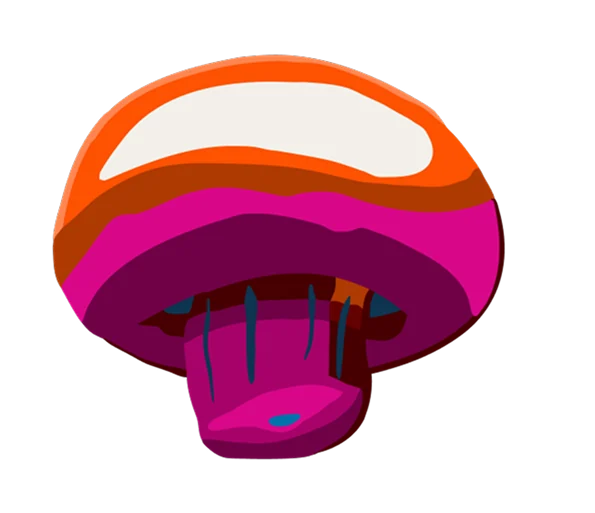
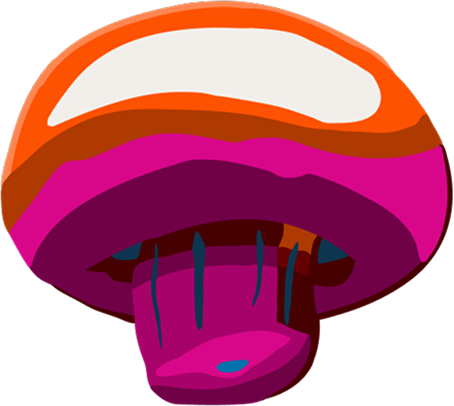
ENTO: interactive illustration mosaic (tinted full-bleed tiles, hover/tap colour flood, tilt, script names) + lossless trimmed illustration assets
Claude-Session: https://claude.ai/code/session_01AmbEQW214YxFFYbdGscpns

diff --git a/src/components/case/EntoCase.tsx b/src/components/case/EntoCase.tsx
@@ -9,15 +9,10 @@ import { categoryCopy, worksCopy } from "@/content/works";
 import { ProjectStamps } from "@/components/works/ProjectStamps";
 import { CaseHeader } from "./CaseHeader";
 import { StickerPile } from "./StickerPile";
+import { IllustrationGallery } from "./IllustrationGallery";
 import styles from "./EntoCase.module.css";
 
 type R = { x: number; y: number; w: number; h: number };
-const pct = (r: R, fw: number, fh: number): CSSProperties => ({
-  left: `${(r.x / fw) * 100}%`,
-  top: `${(r.y / fh) * 100}%`,
-  width: `${(r.w / fw) * 100}%`,
-  height: `${(r.h / fh) * 100}%`,
-});
 
 /* Sticker pile — Figma y 1290 → 2030 (stickers are exported already rotated: placed at their render bounds) */
 const STICKER_Y = 1290;
@@ -36,16 +31,14 @@ const stickers: { src: AssetPath; r: R }[] = [
   { src: "/assets/cases/ento/sticker-midcentury.webp", r: { x: 44, y: 1476, w: 380, h: 117 } },
 ];
 
-/* Illustrations grid — Figma y 4361 → 5160, cells 395 × 395 between hairlines */
-const ILL_Y = 4361;
-const ILL_H = 800;
-const illustrations: { src: AssetPath; alt: keyof typeof entoCopy.alts; r: R }[] = [
-  { src: "/assets/cases/ento/tomate.webp", alt: "tomato", r: { x: 192, y: 4421, w: 271, h: 275 } },
-  { src: "/assets/cases/ento/champinon.webp", alt: "mushroom", r: { x: 568, y: 4440, w: 297, h: 256 } },
-  { src: "/assets/cases/ento/tocineta.webp", alt: "bacon", r: { x: 956, y: 4457, w: 312, h: 217 } },
-  { src: "/assets/cases/ento/pata-de-jamon.webp", alt: "ham", r: { x: 67, y: 4707, w: 522, h: 500 } },
-  { src: "/assets/cases/ento/albahaca.webp", alt: "basil", r: { x: 516, y: 4756, w: 401, h: 401 } },
-  { src: "/assets/cases/ento/illustration-vectorized.webp", alt: "character", r: { x: 935, y: 4766, w: 375, h: 384 } },
+/* Illustrations — interactive mosaic; each tile tinted with an ENTO process colour */
+const illustrations: { src: AssetPath; key: keyof typeof entoCopy.illustrationNames; color: string }[] = [
+  { src: "/assets/cases/ento/tomate.webp", key: "tomato", color: "#5d5609" },
+  { src: "/assets/cases/ento/champinon.webp", key: "mushroom", color: "#045077" },
+  { src: "/assets/cases/ento/tocineta.webp", key: "bacon", color: "#820253" },
+  { src: "/assets/cases/ento/pata-de-jamon.webp", key: "ham", color: "#045077" },
+  { src: "/assets/cases/ento/albahaca.webp", key: "basil", color: "#973102" },
+  { src: "/assets/cases/ento/illustration-vectorized.webp", key: "character", color: "#5d5609" },
 ];
 
 /* Design process: 4 × 2 full-bleed grid; colored cards carry the step, the rest are flavor photos */
@@ -126,24 +119,14 @@ export function EntoCase({ lang }: { lang: Locale }) {
       {/* Illustrations grid */}
       <section className={styles.illustrations}>
         <h2 className={styles.h2}>{e.illustrationsTitle[lang]}</h2>
-        <div className={styles.illGrid} style={{ aspectRatio: `1440 / ${ILL_H}` }}>
-          <svg className={styles.hairlines} viewBox="0 0 1440 800" preserveAspectRatio="none" aria-hidden="true">
-            {[125, 520, 915, 1310].map((x) => (
-              <line key={x} x1={x} y1={0} x2={x} y2={790} />
-            ))}
-            {[0.5, 395, 789.5].map((y) => (
-              <line key={y} x1={125} y1={y} x2={1310} y2={y} />
-            ))}
-          </svg>
-          {illustrations.map((it) => {
-            const img = asset(it.src);
-            return (
-              <span key={it.src} className={styles.illItem} style={pct({ ...it.r, y: it.r.y - ILL_Y }, 1440, ILL_H)}>
-                <Image src={img.src} width={img.width} height={img.height} alt={e.alts[it.alt][lang]} sizes="(max-width: 767px) 40vw, 400px" />
-              </span>
-            );
-          })}
-        </div>
+        <IllustrationGallery
+          items={illustrations.map((it) => ({
+            img: asset(it.src),
+            alt: e.alts[it.key][lang],
+            name: e.illustrationNames[it.key][lang],
+            color: it.color,
+          }))}
+        />
       </section>
 
       {/* Design Process */}

diff --git a/src/content/assets.generated.ts b/src/content/assets.generated.ts
@@ -11,16 +11,16 @@ export const assets = {
   "/assets/cases/bipbip/hero.webp": { src: "/assets/cases/bipbip/hero.webp", width: 552, height: 552 },
   "/assets/cases/bipbip/problem-solution.webp": { src: "/assets/cases/bipbip/problem-solution.webp", width: 1476, height: 935 },
   "/assets/cases/bipbip/wireframes.webp": { src: "/assets/cases/bipbip/wireframes.webp", width: 2368, height: 1938 },
-  "/assets/cases/ento/albahaca.webp": { src: "/assets/cases/ento/albahaca.webp", width: 803, height: 803 },
-  "/assets/cases/ento/champinon.webp": { src: "/assets/cases/ento/champinon.webp", width: 595, height: 513 },
+  "/assets/cases/ento/albahaca.webp": { src: "/assets/cases/ento/albahaca.webp", width: 627, height: 574 },
+  "/assets/cases/ento/champinon.webp": { src: "/assets/cases/ento/champinon.webp", width: 454, height: 406 },
   "/assets/cases/ento/composition.webp": { src: "/assets/cases/ento/composition.webp", width: 2528, height: 1056 },
   "/assets/cases/ento/flavor-01.webp": { src: "/assets/cases/ento/flavor-01.webp", width: 682, height: 992 },
   "/assets/cases/ento/flavor-04.webp": { src: "/assets/cases/ento/flavor-04.webp", width: 732, height: 992 },
   "/assets/cases/ento/flavor-06.webp": { src: "/assets/cases/ento/flavor-06.webp", width: 724, height: 992 },
   "/assets/cases/ento/flavor-07.webp": { src: "/assets/cases/ento/flavor-07.webp", width: 740, height: 992 },
-  "/assets/cases/ento/illustration-vectorized.webp": { src: "/assets/cases/ento/illustration-vectorized.webp", width: 750, height: 769 },
+  "/assets/cases/ento/illustration-vectorized.webp": { src: "/assets/cases/ento/illustration-vectorized.webp", width: 564, height: 670 },
   "/assets/cases/ento/logo-construction.webp": { src: "/assets/cases/ento/logo-construction.webp", width: 2880, height: 1544 },
-  "/assets/cases/ento/pata-de-jamon.webp": { src: "/assets/cases/ento/pata-de-jamon.webp", width: 1045, height: 1000 },
+  "/assets/cases/ento/pata-de-jamon.webp": { src: "/assets/cases/ento/pata-de-jamon.webp", width: 643, height: 529 },
   "/assets/cases/ento/pattern.webp": { src: "/assets/cases/ento/pattern.webp", width: 2880, height: 884 },
   "/assets/cases/ento/process-01.webp": { src: "/assets/cases/ento/process-01.webp", width: 756, height: 914 },
   "/assets/cases/ento/process-02.webp": { src: "/assets/cases/ento/process-02.webp", width: 756, height: 914 },
@@ -36,8 +36,8 @@ export const assets = {
   "/assets/cases/ento/sticker-retail.webp": { src: "/assets/cases/ento/sticker-retail.webp", width: 528, height: 420 },
   "/assets/cases/ento/sticker-tocineta-2.webp": { src: "/assets/cases/ento/sticker-tocineta-2.webp", width: 611, height: 540 },
   "/assets/cases/ento/sticker-vacuum-sealed.webp": { src: "/assets/cases/ento/sticker-vacuum-sealed.webp", width: 963, height: 506 },
-  "/assets/cases/ento/tocineta.webp": { src: "/assets/cases/ento/tocineta.webp", width: 624, height: 435 },
-  "/assets/cases/ento/tomate.webp": { src: "/assets/cases/ento/tomate.webp", width: 543, height: 551 },
+  "/assets/cases/ento/tocineta.webp": { src: "/assets/cases/ento/tocineta.webp", width: 571, height: 403 },
+  "/assets/cases/ento/tomate.webp": { src: "/assets/cases/ento/tomate.webp", width: 483, height: 453 },
   "/assets/cases/linglink/hero.webp": { src: "/assets/cases/linglink/hero.webp", width: 700, height: 370 },
   "/assets/cases/linglink/screens.webp": { src: "/assets/cases/linglink/screens.webp", width: 1480, height: 924 },
   "/assets/cases/linglink/wireframes.webp": { src: "/assets/cases/linglink/wireframes.webp", width: 2380, height: 2029 },

diff --git a/src/components/case/IllustrationGallery.module.css b/src/components/case/IllustrationGallery.module.css
@@ -1,0 +1,156 @@
+/* Full-bleed 3 × 2 mosaic; each tile is tinted with its ENTO colour */
+.grid {
+  display: grid;
+  grid-template-columns: repeat(3, 1fr);
+  width: 100%;
+  margin: calc(45 * var(--u)) 0 0;
+  padding: 0;
+  list-style: none;
+}
+
+.tile {
+  --rx: 0deg;
+  --ry: 0deg;
+  position: relative;
+  display: grid;
+  place-items: center;
+  width: 100%;
+  aspect-ratio: 6 / 5;
+  overflow: hidden;
+  padding: 0;
+  border: 0;
+  background: color-mix(in srgb, var(--c) 9%, var(--color-bg-page));
+  cursor: pointer;
+  perspective: 900px;
+  transition: background-color 450ms var(--ease-out);
+}
+
+.tile:focus-visible {
+  outline: 3px solid var(--color-brand-teal-dark);
+  outline-offset: -3px;
+}
+
+/* Ingredient name, written like the process card labels */
+.name {
+  position: absolute;
+  left: 8%;
+  top: 9%;
+  z-index: 2;
+  font-family: var(--font-script);
+  font-size: clamp(22px, calc(44 * var(--u)), 44px);
+  line-height: 1.6;
+  color: #e5e0d5;
+  white-space: nowrap;
+  opacity: 0;
+  transform: rotate(-16deg) translateY(12px);
+  transform-origin: 0 50%;
+  transition:
+    opacity 350ms var(--ease-out),
+    transform 450ms var(--ease-out);
+  pointer-events: none;
+}
+
+/* idle float invites interaction */
+.float {
+  display: block;
+  width: 58%;
+  animation: float 5.5s ease-in-out infinite;
+  animation-delay: var(--d);
+}
+
+.art {
+  display: block;
+  transform: rotateX(var(--rx)) rotateY(var(--ry)) scale(1);
+  transition:
+    transform 450ms var(--ease-out),
+    filter 450ms var(--ease-out);
+  will-change: transform;
+}
+
+.art img {
+  display: block;
+  width: 100%;
+  height: auto;
+}
+
+.tile[data-active] {
+  background: var(--c);
+}
+
+.tile[data-active] .name {
+  opacity: 1;
+  transform: rotate(-16deg) translateY(0);
+}
+
+.tile[data-active] .art {
+  transform: rotateX(var(--rx)) rotateY(var(--ry)) scale(1.1);
+  filter: drop-shadow(0 18px 22px rgb(0 0 0 / 0.28));
+}
+
+@media (hover: hover) {
+  .tile:hover,
+  .tile:focus-visible {
+    background: var(--c);
+  }
+
+  .tile:hover .name,
+  .tile:focus-visible .name {
+    opacity: 1;
+    transform: rotate(-16deg) translateY(0);
+  }
+
+  .tile:hover .art,
+  .tile:focus-visible .art {
+    transform: rotateX(var(--rx)) rotateY(var(--ry)) scale(1.1);
+    filter: drop-shadow(0 18px 22px rgb(0 0 0 / 0.28));
+  }
+
+  /* pointer tracking replaces the idle float while hovered */
+  .tile:hover .art {
+    transition:
+      transform 120ms linear,
+      filter 450ms var(--ease-out);
+  }
+}
+
+@keyframes float {
+  0%,
+  100% {
+    transform: translateY(0) rotate(0deg);
+  }
+  50% {
+    transform: translateY(-10px) rotate(-1.5deg);
+  }
+}
+
+@media (max-width: 899px) {
+  .grid {
+    grid-template-columns: repeat(2, 1fr);
+    margin-top: 16px;
+  }
+
+  .tile {
+    aspect-ratio: 1;
+  }
+
+  .float {
+    width: 64%;
+  }
+}
+
+@media (prefers-reduced-motion: reduce) {
+  .float {
+    animation: none;
+  }
+
+  .tile,
+  .name,
+  .art {
+    transition-duration: 1ms;
+  }
+
+  .tile .art,
+  .tile:hover .art {
+    transform: none;
+  }
+}

diff --git a/src/components/case/IllustrationGallery.tsx b/src/components/case/IllustrationGallery.tsx
@@ -1,0 +1,62 @@
+"use client";
+
+import Image from "next/image";
+import { useState, type CSSProperties, type PointerEvent } from "react";
+import type { AssetMeta } from "@/content/assets.generated";
+import styles from "./IllustrationGallery.module.css";
+
+export type GalleryItem = { img: AssetMeta; alt: string; name: string; color: string };
+
+/**
+ * ENTO illustrations as a full-bleed mosaic of tinted tiles. Hover (or tap /
+ * keyboard focus) floods the tile with its ENTO colour, lifts and tilts the
+ * illustration toward the pointer and writes the ingredient name in the
+ * script face used by the process cards.
+ */
+export function IllustrationGallery({ items }: { items: GalleryItem[] }) {
+  const [active, setActive] = useState<number | null>(null);
+
+  const onMove = (e: PointerEvent<HTMLButtonElement>) => {
+    if (e.pointerType !== "mouse") return;
+    const el = e.currentTarget;
+    const r = el.getBoundingClientRect();
+    const px = (e.clientX - r.left) / r.width - 0.5;
+    const py = (e.clientY - r.top) / r.height - 0.5;
+    el.style.setProperty("--ry", `${(px * 18).toFixed(2)}deg`);
+    el.style.setProperty("--rx", `${(-py * 18).toFixed(2)}deg`);
+  };
+
+  const onLeave = (e: PointerEvent<HTMLButtonElement>) => {
+    e.currentTarget.style.setProperty("--rx", "0deg");
+    e.currentTarget.style.setProperty("--ry", "0deg");
+  };
+
+  return (
+    <ul className={styles.grid}>
+      {items.map((it, i) => (
+        <li key={it.img.src}>
+          <button
+            type="button"
+            className={styles.tile}
+            style={{ ["--c" as string]: it.color, ["--d" as string]: `${i * -0.7}s` } as CSSProperties}
+            data-active={active === i || undefined}
+            aria-pressed={active === i}
+            aria-label={it.alt}
+            onClick={() => setActive((a) => (a === i ? null : i))}
+            onPointerMove={onMove}
+            onPointerLeave={onLeave}
+          >
+            <span className={styles.name} aria-hidden="true">
+              {it.name}
+            </span>
+            <span className={styles.float}>
+              <span className={styles.art}>
+                <Image src={it.img.src} width={it.img.width} height={it.img.height} alt="" unoptimized />
+              </span>
+            </span>
+          </button>
+        </li>
+      ))}
+    </ul>
+  );
+}

diff --git a/src/components/case/EntoCase.module.css b/src/components/case/EntoCase.module.css
@@ -115,41 +115,13 @@
 
 /* ── Illustrations (y 4257 → 5160) ──────────────────────────── */
 .illustrations {
-  max-width: var(--layout-page-width);
-  margin: calc(234 * var(--u)) auto 0;
+  margin-top: calc(234 * var(--u));
 }
 
 .illustrations > .h2 {
+  max-width: var(--layout-page-width);
+  margin-inline: auto;
   padding-left: calc(501 * var(--u));
-}
-
-.illGrid {
-  position: relative;
-  margin-top: calc(45 * var(--u));
-}
-
-.hairlines {
-  position: absolute;
-  inset: 0;
-  width: 100%;
-  height: 100%;
-  stroke: var(--color-text-ink);
-  stroke-width: 1;
-}
-
-.hairlines line {
-  vector-effect: non-scaling-stroke;
-}
-
-.illItem {
-  position: absolute;
-  display: block;
-}
-
-.illItem img {
-  width: 100%;
-  height: 100%;
-  object-fit: contain;
 }
 
 /* ── Design Process (4 × 2, full bleed) ─────────────────────── */
@@ -276,9 +248,6 @@
     margin-top: 56px;
   }
 
-  .illGrid {
-    margin-top: 16px;
-  }
 
   .process {
     margin-top: 56px;

diff --git a/src/content/cases.ts b/src/content/cases.ts
@@ -367,6 +367,14 @@ export const entoCopy = {
   dragHint: { en: "Grab a sticker and drag it around", es: "Agarra un sticker y arrástralo" } satisfies T,
   stickersAlt: { en: "ENTO die-cut stickers scattered over the ENTO FOOD READY TO EAT pattern", es: "Stickers troquelados de ENTO esparcidos sobre el patrón ENTO FOOD READY TO EAT" } satisfies T,
   illustrationsTitle: { en: "Illustrations", es: "Ilustraciones" } satisfies T,
+  illustrationNames: {
+    tomato: { en: "Tomato", es: "Tomate" },
+    mushroom: { en: "Mushroom", es: "Champiñón" },
+    bacon: { en: "Bacon", es: "Tocineta" },
+    ham: { en: "Ham", es: "Jamón" },
+    basil: { en: "Basil", es: "Albahaca" },
+    character: { en: "Warrior", es: "Guerrero" },
+  } satisfies Record<string, T>,
   processTitle: { en: "Design Process", es: "Proceso de diseño" } satisfies T,
   process: [
     {
